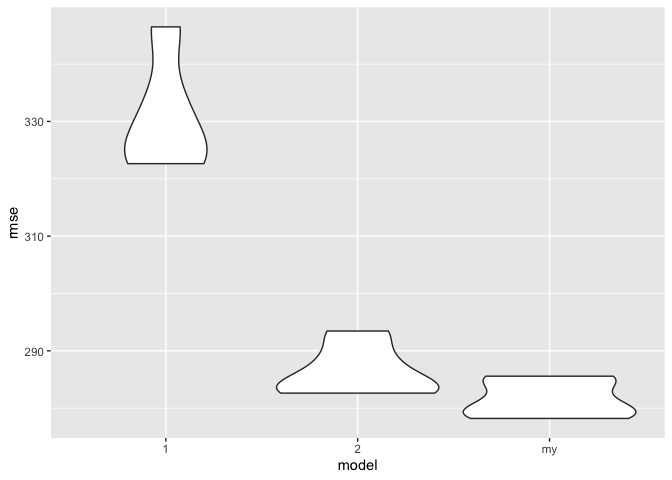
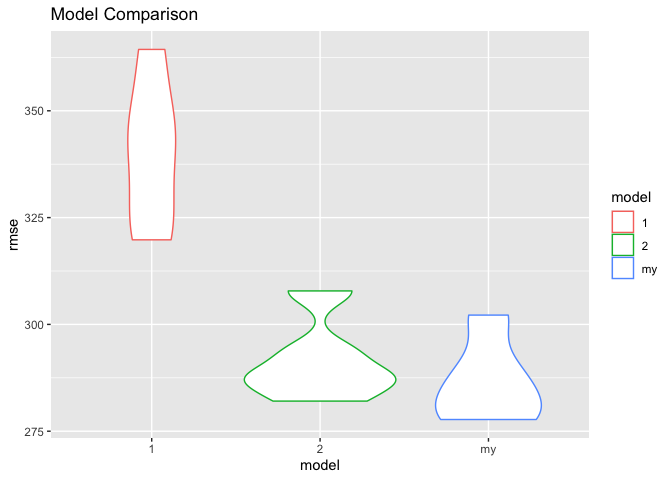
problem 2

diff --git a/p8105_hw6_xl3048.md b/p8105_hw6_xl3048.md
@@ -140,6 +140,47 @@ anova(mod_null, my_mod) %>%
     ## 1   4335 359931888.    NA      NA       NA   NA       
     ## 2   4331 353764466.     4 6167422.      18.9  2.12e-15
 
+I began the problem by first looking at the performance of Model 1 and
+Model 2 (specified in the problem) and plot their RMSE using violin
+plot. Found out Model 2 had lower RMSE and performed better than Model
+1.  
+Thus, I built my own model based on predictors included in Model 2. I
+tried a couple of combinations of predictors that I hypothesized to have
+indicative ability to birth weight and used ANOVA to compare two nested
+model.  
+The null hypothesis is the full (my model) and the reduced model (Model
+2) do not differ significantly; the alternative hypothesis is the full
+model is significantly better.  
+The p-value shown in the ANOVA summary table above is very low (reject
+H0), meaning my model has significantly better performance than Model 2.
+
+``` r
+resid <- add_residuals(data = bwt_df, model = my_mod) %>% select(resid)
+p<-add_predictions(data = bwt_df, model = my_mod) %>% cbind(resid) %>%
+  select(pred,resid) %>%
+  ggplot(aes(x = pred, y = resid)) + geom_point(color = "lightblue")+
+  labs(title = "Residual vs Fitted Values", x = "Fitted Values", y= "Residuals")
+p
+```
+
+![](p8105_hw6_xl3048_files/figure-gfm/unnamed-chunk-6-1.png)<!-- -->
+Looks like the majority of residuals clustered in the range between
+-1000 to 1000. This may be caused by the original dataset does not
+uniformly distributed.  
+Zoom in the plot…
+
+``` r
+p+xlim(1500,4500) + ylim(-1500,1500)
+```
+
+    ## Warning: Removed 25 rows containing missing values (geom_point).
+
+![](p8105_hw6_xl3048_files/figure-gfm/unnamed-chunk-7-1.png)<!-- -->
+
+As we expect to see, residual values bounce around zero (expected value
+is 0); residuals form a horizontal band around zero: above and below
+(indication of equal variance).
+
 ``` r
 cv_df = crossv_mc(bwt_df, 5) 
 
@@ -161,9 +202,18 @@ cv_df =
     rmse_2 = map2_dbl(.x=mod_2, .y=test, ~rmse(model = .x, data = .y)),
     rmse_my = map2_dbl(.x = mod_3, .y=test, ~rmse(model = .x, data = .y))
     )
-#cv_df
+cv_df %>% select(starts_with("rmse_"))%>%knitr::kable(digits = 3)
+```
 
+| rmse\_1 | rmse\_2 | rmse\_my |
+| ------: | ------: | -------: |
+| 364.364 | 307.838 |  302.178 |
+| 319.797 | 282.049 |  278.384 |
+| 346.291 | 287.112 |  277.739 |
+| 326.281 | 287.677 |  284.144 |
+| 343.162 | 293.581 |  289.525 |
 
+``` r
 cv_df %>% 
   select(starts_with("rmse")) %>% 
   pivot_longer(
@@ -172,7 +222,22 @@ cv_df %>%
     values_to = "rmse",
     names_prefix = "rmse_") %>% 
   mutate(model = fct_inorder(model)) %>% 
-  ggplot(aes(x = model, y = rmse)) + geom_violin()
+  ggplot(aes(x = model, y = rmse,color = model)) + geom_violin()+
+  labs(title = "Model Comparison")
 ```
 
 ![](p8105_hw6_xl3048_files/figure-gfm/cv-1.png)<!-- -->
+
+Model 1: using length at birth and gestational age as predictors (main
+effects only)  
+Model 2: using head circumference, length, sex, and all interactions
+(including the three-way interaction) between these  
+My Model: besides variables (and their interactions) used in Model 2, I
+added smoking status (*smoken*), previous number of low birth weight
+babies (*pnumlbw*), family monthly income (*fincome*), mother’s
+pre-pregnancy BMI (*ppbmi*), and the interaction between *fincome* and
+*ppbmi*.Smoking status of mother during pregnancy is a crucial factor on
+the health of the baby, so I decided to include it in the model. Also,
+the family income is relevant to the health and weight of the mother,
+and sequentially the health and weight of the new born. The family
+income should have some interaction with mother’s BMI before pregnancy.
